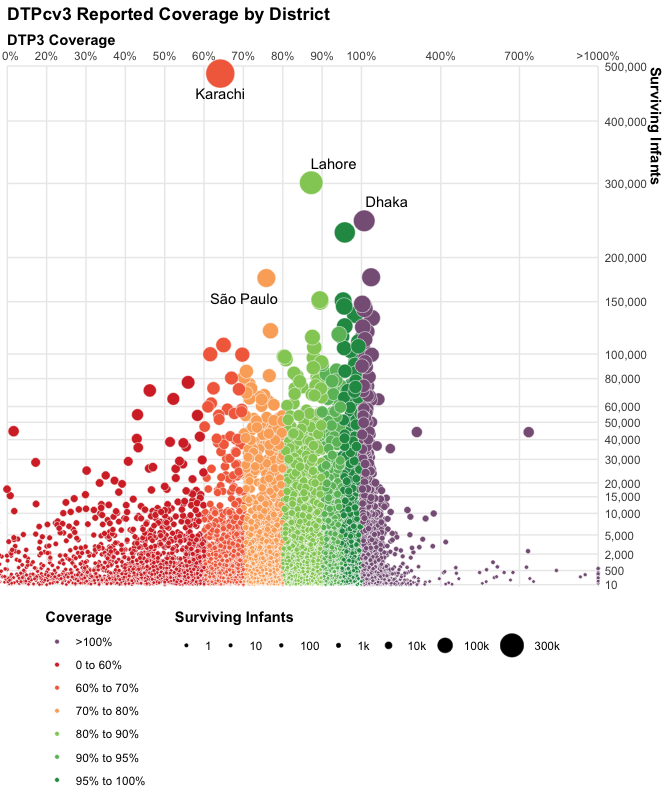
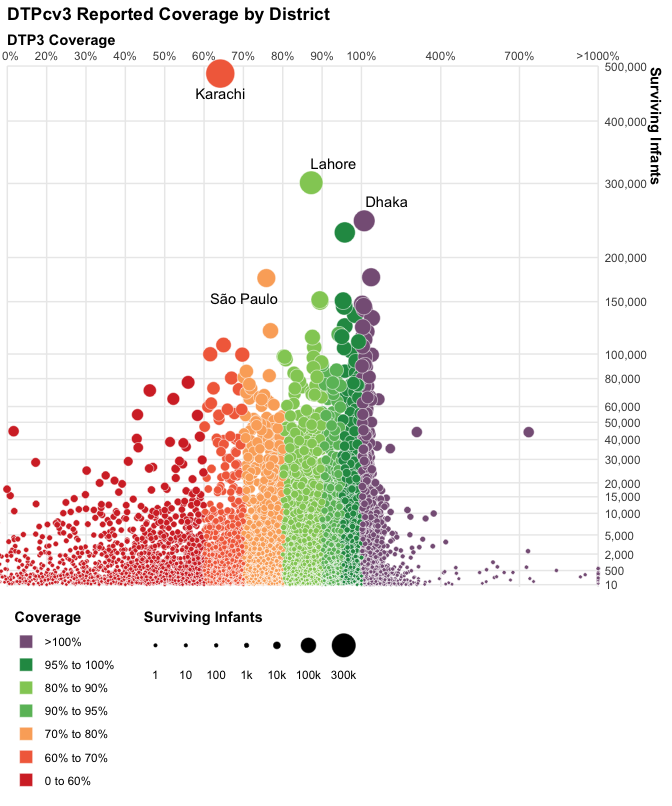
finished three

Changed region(s): [[0.0, 0.3722, 0.5938, 0.9926], [0.5625, 0.7754, 0.8438, 0.8375]]

diff --git a/who.md b/who.md
@@ -94,12 +94,15 @@ global_regional_coverage %>%
   ggplot() +
   geom_line(aes(year, coverage, color = vaccine), size = 0.8) +
   geom_hline(yintercept = 90, color = "#367cc1", size = 0.8) +
-  geom_text(
+  annotate(
+    geom = "text",
     x = 2008, 
     y = 93, 
     hjust = 0.5, 
     label = "90% Vaccination Target", 
-    color = "#367cc1"
+    color = "#367cc1",
+    size = 3,
+    fontface = "bold"
   ) +
   scale_x_continuous(
     breaks = seq(2000, 2016, by = 2)
@@ -160,6 +163,16 @@ coverage_colors <- c(
   ">100%" = "#876086"
 )
 
+coverage_order <- c(
+  "0 to 60%",
+  "60% to 70%",
+  "70% to 80%",
+  "90% to 95%",
+  "80% to 90%",
+  "95% to 100%",
+  ">100%"
+)
+
 labelled <- c("Dhaka", "Lahore", "Karachi", "São Paulo")
 
 x_breaks <- c(seq(0, 100, by = 10), 400, 700, 1000)
@@ -192,6 +205,7 @@ subnational %>%
       Coverage <= 100 ~ "95% to 100%",
       TRUE ~ ">100%"
     ),
+    color = factor(color, levels = coverage_order, ordered = TRUE),
     Coverage = if_else(Coverage < 1000, Coverage, 1000),
     label = if_else(Admin2 %in% labelled, Admin2, "")
   ) %>% 
@@ -237,12 +251,19 @@ subnational %>%
     guide = guide_legend(
       title.position = "top", 
       nrow = 1, 
-      override.aes = list(fill = "black", color = "black")
+      override.aes = list(fill = "black", color = "black"),
+      label.position = "bottom",
+      label.hjust = 0.5
     )
   ) +
   scale_fill_manual(
     values = coverage_colors, 
-    guide = guide_legend(title.position = "top", ncol = 1)
+    guide = guide_legend(
+      title.position = "top", 
+      ncol = 1,
+      override.aes = list(shape = 22, size = 5),
+      reverse = TRUE
+    )
   ) +
   labs(
     x = "DTP3 Coverage",
@@ -257,6 +278,7 @@ subnational %>%
     axis.title.y = element_text(face = "bold", hjust = 0),
     legend.position = "bottom",
     legend.title = element_text(face = "bold"),
+    legend.justification = "left",
     plot.title = element_text(face = "bold"),
     panel.grid.minor = element_blank()
   ) +
@@ -310,22 +332,40 @@ data <-
       diff_to_next == 0 ~ -2,
       TRUE ~ 0
     ),
-    ypos = wuenic + ynudge
+    ypos = wuenic + ynudge,
   )
+
+with_colors <- 
+  data %>% 
+  filter(year == 2016) %>% 
+  mutate(
+    color = case_when(
+      wuenic < 60 ~ "red",
+      wuenic < 70 ~ "orange",
+      TRUE ~ "yellow"
+    )
+  ) %>% 
+  select(country, color)
+
+data <- 
+  data %>% 
+  left_join(with_colors, by = "country")
 
 data %>% 
   ggplot() +
-  geom_point(aes(year, wuenic)) +
+  geom_point(aes(year, wuenic, color = color)) +
   geom_segment(
     aes(
       y = `2010`,
-      yend = `2016`
+      yend = `2016`,
+      color = color
     ), 
     x = 2010, 
     xend = 2016, 
     data = data %>% 
       select(country, year, wuenic) %>% 
-      spread(year, wuenic)
+      spread(year, wuenic) %>% 
+      left_join(with_colors, by = "country")
   ) +
   geom_text(
     aes(
@@ -368,11 +408,19 @@ data %>%
     limits = c(2000, 2026),
     position = "top"
   ) +
+  scale_color_manual(
+    values = c(
+      "red" = "#d5322f",
+      "orange" = "#f36d4a",
+      "yellow" = "#fbad68"
+    )
+  ) +
   theme_minimal() +
   theme(
     panel.grid = element_blank(),
     axis.text.y = element_blank(),
     axis.text.x = element_text(
+      color = "black",
       size = 16,
       face = "bold"
     ),
@@ -380,7 +428,8 @@ data %>%
       size = 16,
       face = "bold",
       hjust = 0.5
-    )
+    ),
+    legend.position = "none"
   ) +
   labs(
     x = NULL,
@@ -389,7 +438,7 @@ data %>%
   )
 ```
 
-![](who_files/figure-markdown_github/unnamed-chunk-8-1.png)
+<img src="who_files/figure-markdown_github/unnamed-chunk-8-1.png" width="100%" />
 
 ``` r
 knitr::include_graphics("national.png")
